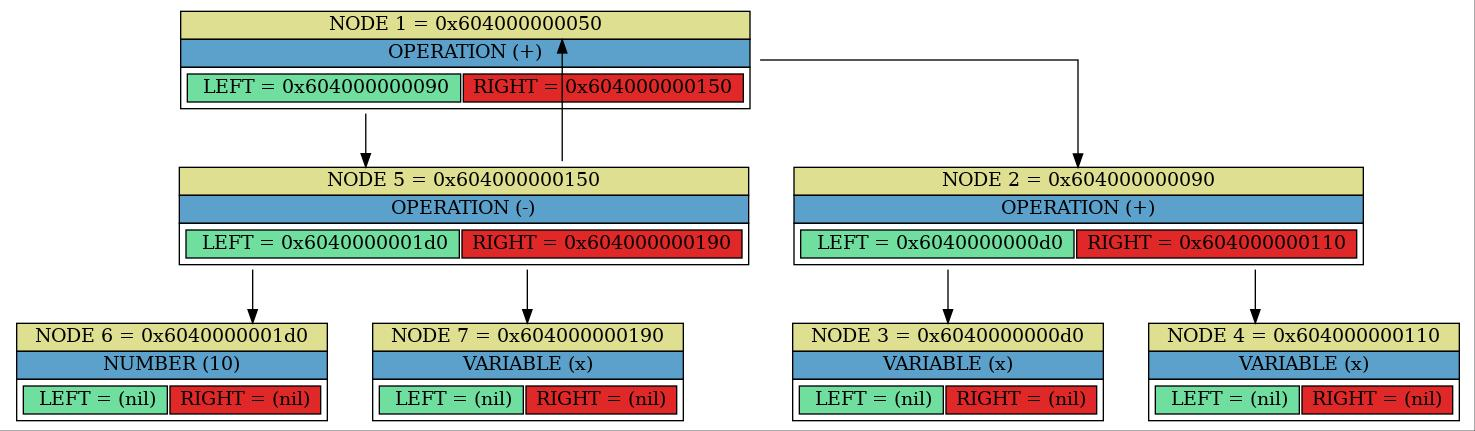
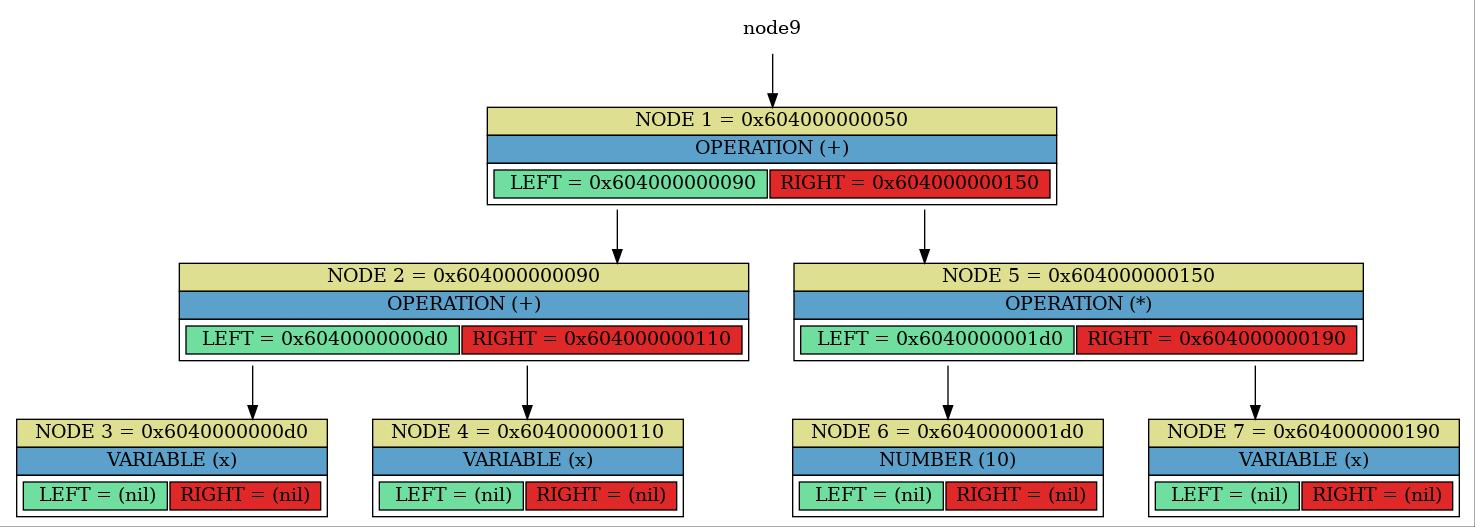
mul is working

diff --git a/graph_log.html b/graph_log.html
@@ -23,7 +23,7 @@ OPERATION (+)
 </table>>
 ]
 
-node5 -> node1:H1;node2 [
+node9 -> node1:H1;node2 [
 label=<
 <table border="0" cellborder="1" cellspacing="0">
     <tr><td bgcolor="#dfdf91" port = "H2">NODE 2 = 0x604000000090</td></tr>
@@ -88,7 +88,7 @@ label=<
 <table border="0" cellborder="1" cellspacing="0">
     <tr><td bgcolor="#dfdf91" port = "H5">NODE 5 = 0x604000000150</td></tr>
     <tr><td bgcolor= "#5ca1cc"><font color="black"> 
-OPERATION (-)
+OPERATION (*)
  </font></td></tr>
     <tr>
     <td>

diff --git a/src/matan_killer_f.cpp b/src/matan_killer_f.cpp
@@ -14,6 +14,13 @@ static Exp_node * createNum(int number)
     return createNode(NUM, val, nullptr, nullptr);
 }
 
+static Exp_node * createOp(Operator op)
+{
+    Value val = {};
+    val.op_value = op;
+    return createNode(OP, val, nullptr, nullptr);
+}
+
 int getExpression(Text_info *text, Exp_node *main_node)
 {
     if (text->buf == nullptr)
@@ -188,13 +195,32 @@ Exp_node * differentiate(const Exp_node *node)
             {
                 case ADD:
                 case SUB:
-                    new_node->l_son = differentiate(node->l_son);
-                    new_node->l_son->parent = new_node;
-                    new_node->r_son = differentiate(node->r_son);
-                    new_node->r_son->parent = new_node;
+                    diffNode(node, new_node, LEFT_SON);
+                    diffNode(node, new_node, RIGHT_SON);
                     copyNodeData(node, new_node);
                     return new_node;
                     break;
+                
+                case MUL:
+                   
+                    new_node->type = OP;
+                    new_node->value.op_value = ADD;
+
+                    new_node->l_son = createOp(MUL);
+                    linkToParent(new_node, new_node->l_son);
+
+                    diffNode(node, new_node->l_son, LEFT_SON);
+                    copyNode(node, new_node->l_son, RIGHT_SON);
+
+                    new_node->r_son = createOp(MUL);
+                    linkToParent(new_node, new_node->r_son);                  
+
+                    diffNode(node, new_node->r_son, RIGHT_SON);
+                    copyNode(node, new_node->r_son, LEFT_SON);
+
+                    return new_node;
+                    break;
+
                 default:
                     printf("go f smbdy");
                     break;
@@ -205,8 +231,43 @@ Exp_node * differentiate(const Exp_node *node)
     return nullptr;
 }
 
-Exp_node * copySingle(Exp_node *node)
+int diffNode(const Exp_node *argument, Exp_node * result, const char dest)
 {
-    return NULL;
+    switch (dest)
+    {
+        case LEFT_SON:
+            result->l_son = differentiate(argument->l_son);
+            result->l_son->parent = result;
+            break;
+        case RIGHT_SON:
+            result->r_son = differentiate(argument->r_son);
+            result->r_son->parent = result;
+            break;
+        default:
+            return MATAN_KILLER_ERROR_INCORRECT_DESTINATION_PORT;
+            break;
+    }
+
+    return 0;
+}
+
+int copyNode(const Exp_node *argument, Exp_node * result, const char dest)
+{
+    switch (dest)
+    {
+        case LEFT_SON:
+            result->l_son = copy(argument->l_son);
+            result->l_son->parent = result;
+            break;
+        case RIGHT_SON:
+            result->r_son = copy(argument->r_son);
+            result->r_son->parent = result;
+            break;
+        default:
+            return MATAN_KILLER_ERROR_INCORRECT_DESTINATION_PORT;
+            break;
+    }
+
+    return 0;
 
 }

diff --git a/lib/tree_funcs.cpp b/lib/tree_funcs.cpp
@@ -36,7 +36,7 @@ Exp_node * nodeCtor()
     return (Exp_node *)calloc(1, sizeof(Exp_node));
 }
 
-Exp_node * copyNode(Exp_node * node)
+Exp_node * copy(Exp_node * node)
 {
     if (!node)
         return nullptr;
@@ -47,17 +47,20 @@ Exp_node * copyNode(Exp_node * node)
 
     if (node->l_son)
     {
-        new_node->l_son = copyNode(node->l_son);
+        new_node->l_son = copy(node->l_son);
         new_node->l_son->parent = new_node;
     }
 
     if (node->r_son)
     {
-        new_node->r_son = copyNode(node->r_son);
+        new_node->r_son = copy(node->r_son);
         new_node->r_son->parent = new_node;
     }
 
+#ifdef DEBUG
     dumpExpNode(new_node);
+#endif
+
     return new_node;
 
 }
@@ -92,6 +95,16 @@ Exp_node * createNode(Node_type type, Value value, Exp_node * l_son, Exp_node * 
     new_node->r_son = r_son;
 
     return new_node;
+
+}
+
+int linkToParent(Exp_node *parent, Exp_node *orphan)
+{
+    if (parent == nullptr || orphan == nullptr)
+        return -1;
+
+    orphan->parent = parent;
+    return 0;
 
 }
 

diff --git a/lib/tree.h b/lib/tree.h
@@ -63,7 +63,9 @@ Exp_node * nodeConnect(Exp_node *parent, const char dest);
 Exp_node * nodeCtor();
 Exp_node * createNode(Node_type type, Value value, Exp_node * l_son, Exp_node * r_son);
 
-Exp_node * copyNode(Exp_node * node);
+int linkToParent(Exp_node *parent, Exp_node *orphan);
+
+Exp_node * copy(Exp_node * node);
 int copyNodeData(const Exp_node *src_node, Exp_node *dest_node);
 
 Exp_node * findNode(Exp_node *node, const char *string);//TODO change completely this function do we need her?

diff --git a/include/matan_killer_f.h b/include/matan_killer_f.h
@@ -12,4 +12,7 @@ int parseTerminalNode(Exp_node *exp_node, const char * parsing_start, size_t par
 
 Exp_node * differentiate(const Exp_node *exp_node);
 
+int diffNode(const Exp_node *argument, Exp_node * result, const char dest);
+int copyNode(const Exp_node *argument, Exp_node * result, const char dest);
+
 #endif

diff --git a/include/errors.h b/include/errors.h
@@ -7,3 +7,5 @@ DEF_ERR(INVALID_VALUE, 2)
 DEF_ERR(INVALID_L_SON_PTR, 3)
 
 DEF_ERR(INVALID_R_SON_PTR, 4)
+
+DEF_ERR(INCORRECT_DESTINATION_PORT, 5)
